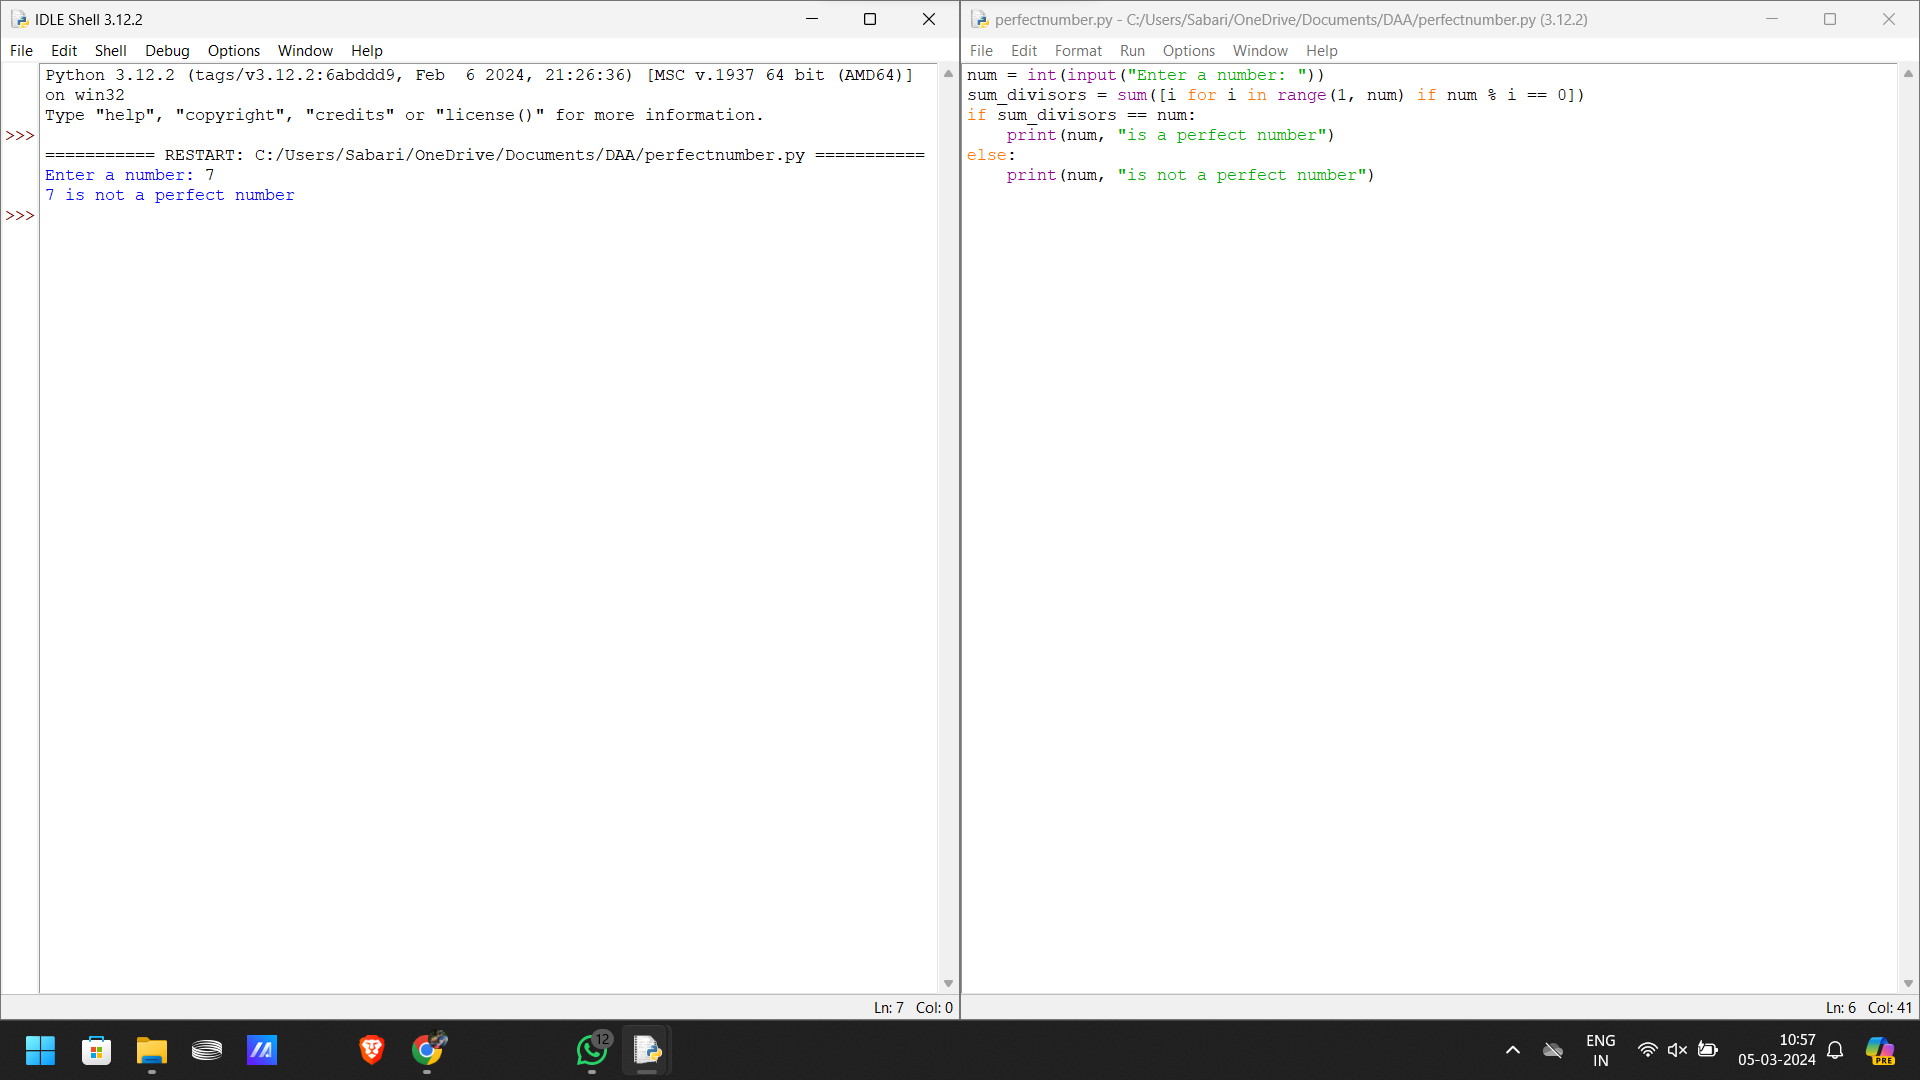
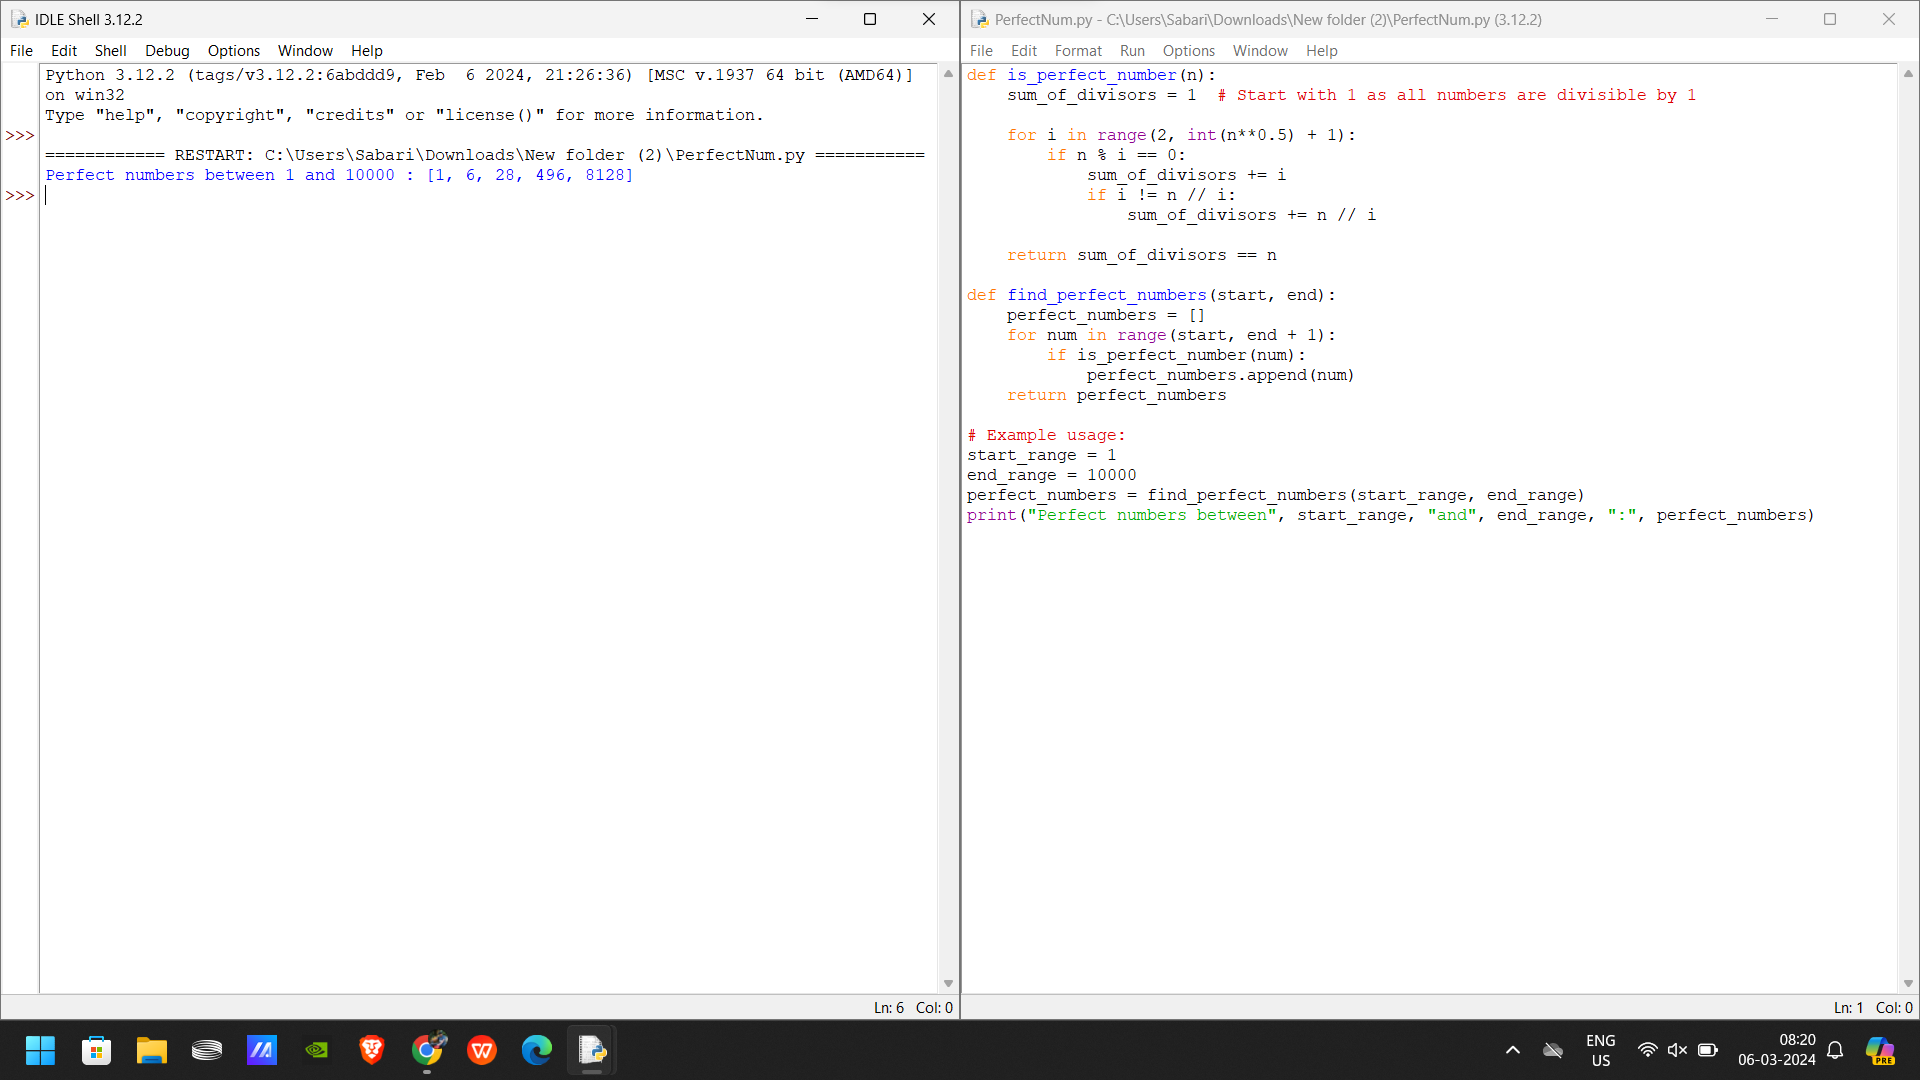
Add files via upload

diff --git a/TSP.py b/TSP.py
@@ -1,0 +1,33 @@
+import sys
+
+def tsp(graph):
+    n = len(graph)
+    memo = [[-1] * (1 << n) for _ in range(n)]
+
+    def dfs(node, visited):
+        if visited == (1 << n) - 1:  # Base case: all nodes visited
+            return graph[node][0]     # Return to the starting node
+
+        if memo[node][visited] != -1:
+            return memo[node][visited]
+
+        min_dist = sys.maxsize
+
+        for next_node in range(n):
+            if not (visited & (1 << next_node)):
+                dist = graph[node][next_node] + dfs(next_node, visited | (1 << next_node))
+                min_dist = min(min_dist, dist)
+
+        memo[node][visited] = min_dist
+        return min_dist
+
+    return dfs(0, 1)
+
+# Example usage:
+graph = [
+    [0, 10, 15, 20],
+    [10, 0, 35, 25],
+    [15, 35, 0, 30],
+    [20, 25, 30, 0]
+]
+print("Minimum distance for TSP:", tsp(graph))

diff --git a/PerfectNum.py b/PerfectNum.py
@@ -1,0 +1,23 @@
+def is_perfect_number(n):
+    sum_of_divisors = 1  # Start with 1 as all numbers are divisible by 1
+    
+    for i in range(2, int(n**0.5) + 1):
+        if n % i == 0:
+            sum_of_divisors += i
+            if i != n // i:
+                sum_of_divisors += n // i
+
+    return sum_of_divisors == n
+
+def find_perfect_numbers(start, end):
+    perfect_numbers = []
+    for num in range(start, end + 1):
+        if is_perfect_number(num):
+            perfect_numbers.append(num)
+    return perfect_numbers
+
+# Example usage:
+start_range = 1
+end_range = 10000
+perfect_numbers = find_perfect_numbers(start_range, end_range)
+print("Perfect numbers between", start_range, "and", end_range, ":", perfect_numbers)

diff --git a/OBST.py b/OBST.py
@@ -1,0 +1,28 @@
+import sys
+
+def optimal_bst(keys, freq):
+    n = len(keys)
+    
+    cost = [[0] * n for _ in range(n)]
+
+    for i in range(n):
+        cost[i][i] = freq[i]
+
+    for L in range(2, n + 1):
+        for i in range(n - L + 1):
+            j = i + L - 1
+            cost[i][j] = sys.maxsize
+
+            for r in range(i, j + 1):
+                c = sum(freq[i:j+1])
+                if r > i:
+                    c += cost[i][r - 1]
+                if r < j:
+                    c += cost[r + 1][j]
+                cost[i][j] = min(cost[i][j], c)
+
+    return cost[0][n - 1]
+
+keys = [10, 12, 20, 25]
+freq = [34, 8, 50, 10]
+print("Optimal Cost:", optimal_bst(keys, freq))

diff --git a/PascalTriangle.py b/PascalTriangle.py
@@ -1,0 +1,23 @@
+def generate_pascal_triangle(num_rows):
+    triangle = []
+
+    for i in range(num_rows):
+        row = [None] * (i + 1)
+        row[0], row[-1] = 1, 1  # First and last elements of each row are always 1
+
+        for j in range(1, len(row) - 1):
+            row[j] = triangle[i - 1][j - 1] + triangle[i - 1][j]
+
+        triangle.append(row)
+
+    return triangle
+
+def print_pascal_triangle(triangle):
+    for row in triangle:
+        print(" ".join(map(str, row)).center(len(triangle[-1]) * 4))
+
+# Example usage:
+num_rows = 5
+pascal_triangle = generate_pascal_triangle(num_rows)
+print("Pascal's Triangle:")
+print_pascal_triangle(pascal_triangle)

diff --git a/Floyd_algo.py b/Floyd_algo.py
@@ -1,0 +1,28 @@
+INF = float('inf')
+
+def floyd(graph):
+    n = len(graph)
+    dist = [[0] * n for _ in range(n)]
+
+    for i in range(n):
+        for j in range(n):
+            dist[i][j] = graph[i][j]
+
+    for k in range(n):
+        for i in range(n):
+            for j in range(n):
+                dist[i][j] = min(dist[i][j], dist[i][k] + dist[k][j])
+
+    return dist
+
+# Example usage:
+graph = [
+    [0, 5, INF, 10],
+    [INF, 0, 3, INF],
+    [INF, INF, 0, 1],
+    [INF, INF, INF, 0]
+]
+result = floyd(graph)
+print("Shortest distances between all pairs of vertices:")
+for row in result:
+    print(row)

diff --git a/OptimalCost.py b/OptimalCost.py
@@ -1,0 +1,24 @@
+def min_cost_path(grid):
+    m = len(grid)
+    n = len(grid[0])
+    dp = [[0] * n for _ in range(m)]
+    dp[0][0] = grid[0][0]
+
+    for i in range(1, m):
+        dp[i][0] = dp[i-1][0] + grid[i][0]
+
+    for j in range(1, n):
+        dp[0][j] = dp[0][j-1] + grid[0][j]
+
+    for i in range(1, m):
+        for j in range(1, n):
+            dp[i][j] = grid[i][j] + min(dp[i-1][j], dp[i][j-1])
+
+    return dp[m-1][n-1]
+
+grid = [
+    [1, 3, 1],
+    [1, 5, 1],
+    [4, 2, 1]
+]
+print("Minimum cost path:", min_cost_path(grid))

diff --git a/Binomial_coefficient.py b/Binomial_coefficient.py
@@ -1,0 +1,16 @@
+def binomial_coefficient(n, k):
+    dp = [[0] * (k + 1) for _ in range(n + 1)]
+
+    for i in range(n + 1):
+        dp[i][0] = 1  # C(n, 0) = 1
+
+    for i in range(1, n + 1):
+        for j in range(1, min(i, k) + 1):
+            dp[i][j] = dp[i - 1][j - 1] + dp[i - 1][j]
+
+    return dp[n][k]
+
+# Example usage:
+n = 5
+k = 2
+print("Binomial Coefficient:", binomial_coefficient(n, k))

diff --git a/Rverse_num.py b/Rverse_num.py
@@ -1,0 +1,11 @@
+def reverse_number(n, rev=0):
+    if n == 0:
+        return rev
+    else:
+        last_digit = n % 10
+        rev = rev * 10 + last_digit
+        return reverse_number(n // 10, rev)
+
+number = 12345
+print("Original number:", number)
+print("Reverse number:", reverse_number(number))

diff --git a/numPattern.py b/numPattern.py
@@ -1,0 +1,12 @@
+def numpat(n):
+	num = 1
+	for i in range(0, n):
+		num = 1
+		for j in range(0, i + 1):
+			print(num, end=" ")
+			num = num + 1
+		print("\r")
+
+# Driver code
+n = 3
+numpat(n)
